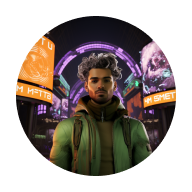
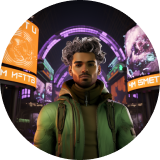
slice-design proto: crop avatar_only.png to its circle; UPI ID in primary white

diff --git a/skills/slice-design/proto/src/pods/payments/L0_valentinoHome.jsx b/skills/slice-design/proto/src/pods/payments/L0_valentinoHome.jsx
@@ -185,7 +185,8 @@ function ActionPills({ upiId }) {
       </ActionPill>
       <ActionPill label={`UPI ID ${upiId}`}>
         <PillGlyph src="/assets/icons/pill_upi.svg" width={31} />
-        <span style={PILL_TEXT}>{upiId}</span>
+        {/* UPI ID in primary white (user, cal:2026-10-06) — it is the identity anchor */}
+        <span style={{ ...PILL_TEXT, color: WHITE }}>{upiId}</span>
       </ActionPill>
     </div>
   );
